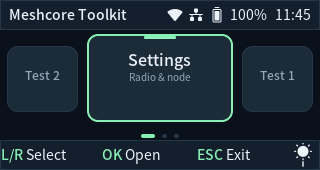
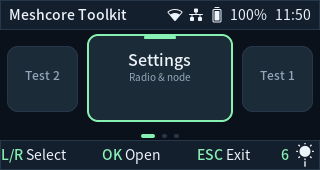
feat(navbar): label the theme toggle with its key
The theme toggle sat unlabelled at the right end of the bottom bar, where the
numbered nav buttons used to be, so it read as "8" instead of the key that
actually drives it.

- Draw a "6" key chip immediately left of the moon/sun icon, in the same accent
  colour as the other hint keys, and keep it in step with the theme.
- README controls row mentions the chip, and the light theme now has its own
  screenshot.

Changed region(s): [[0.875, 0.8235, 1.0, 1.0], [0.9062, 0.0294, 0.9688, 0.1176], [0.5312, 0.0588, 0.5625, 0.0882]]

diff --git a/src/view/widgets/navbar.cpp b/src/view/widgets/navbar.cpp
@@ -108,10 +108,24 @@ void NavBar::build() {
         reactive::bind_theme(hint_actions_[i], view_model_.dark_mode_subject(), reactive::ThemeRole::Text);
     }
 
+    // The theme toggle gets its own key chip so it is not mistaken for the
+    // last of the numbered nav buttons.
+    theme_group_ = lv_obj_create(core_obj_);
+    lv_obj_remove_style_all(theme_group_);
+    lv_obj_set_size(theme_group_, LV_SIZE_CONTENT, LV_PCT(100));
+    lv_obj_set_flex_flow(theme_group_, LV_FLEX_FLOW_ROW);
+    lv_obj_set_flex_align(theme_group_, LV_FLEX_ALIGN_CENTER, LV_FLEX_ALIGN_CENTER, LV_FLEX_ALIGN_CENTER);
+    lv_obj_set_style_pad_column(theme_group_, 2, 0);
+    lv_obj_clear_flag(theme_group_, LV_OBJ_FLAG_SCROLLABLE);
+
+    theme_key_label_ = lv_label_create(theme_group_);
+    lv_label_set_text(theme_key_label_, "6");
+    lv_obj_set_style_text_font(theme_key_label_, key_font, 0);
+
     const auto light = view::palette(false).text;
     const auto dark = view::palette(true).text;
     auto* icon_font = assets_.load_font("Phosphor-Fill.ttf", 22);
-    theme_button_ = std::make_unique<IconButton>(core_obj_, view_model_, 32, 24, "",
+    theme_button_ = std::make_unique<IconButton>(theme_group_, view_model_, 28, 24, "",
                                                  icon_font ? icon_font : &lv_font_montserrat_14,
                                                  light, dark, toggle_theme_cb, &view_model_, true);
     theme_button_->build();
@@ -132,6 +146,9 @@ void NavBar::update_hints() {
         lv_subject_get_int(view_model_.settings_edit_active_subject()) != 0 || editing_name;
     const auto hints = hints_for(view_model_.current_page(), editing, editing_name);
     const auto palette = view::palette(view_model_.is_dark_mode());
+    if (theme_key_label_) {
+        lv_obj_set_style_text_color(theme_key_label_, palette.primary, 0);
+    }
     for (int i = 0; i < 3; ++i) {
         lv_label_set_text(hint_keys_[i], hints[i].key);
         lv_label_set_text(hint_actions_[i], hints[i].action);

diff --git a/src/view/widgets/navbar.h b/src/view/widgets/navbar.h
@@ -43,6 +43,8 @@ private:
     std::array<lv_obj_t*, 3> hint_keys_{};
     std::array<lv_obj_t*, 3> hint_actions_{};
     std::unique_ptr<IconButton> theme_button_;
+    lv_obj_t* theme_group_{nullptr};
+    lv_obj_t* theme_key_label_{nullptr};
     lv_observer_t* page_observer_{nullptr};
     lv_observer_t* theme_observer_{nullptr};
 };

diff --git a/README.md b/README.md
@@ -11,6 +11,11 @@ mint accent card flanked by side cards and a dot indicator.
 | --- | --- | --- | --- |
 | ![Main menu](screenshot/app-home.png) | ![Settings](screenshot/app-settings.png) | ![Editing](screenshot/app-settings-edit.png) | ![Name editor](screenshot/app-name-edit.png) |
 
+The light theme is one keypress away, and the `6` chip in the bottom bar shows
+which key does it:
+
+![Light theme](screenshot/app-home-light.png)
+
 *Captured on the device with the app's own screenshot key (320×170).*
 *The app starts dark; `6` switches to a light theme.*
 
@@ -52,7 +57,7 @@ plain letters instead — no `FN` chord is ever needed.
 | `OK` / `Enter` | open the selected card, start editing the focused field, then save |
 | any letter / digit / space / `-` `.` | type into the node name while it is being edited |
 | `ESC` | cancel an edit, go back, or exit from the main screen |
-| `6` | light / dark theme |
+| `6` | light / dark theme (labelled next to the moon/sun icon in the bottom bar) |
 | `PRSC` | save a screenshot |
 | `HELP` | keyboard help overlay |
 
